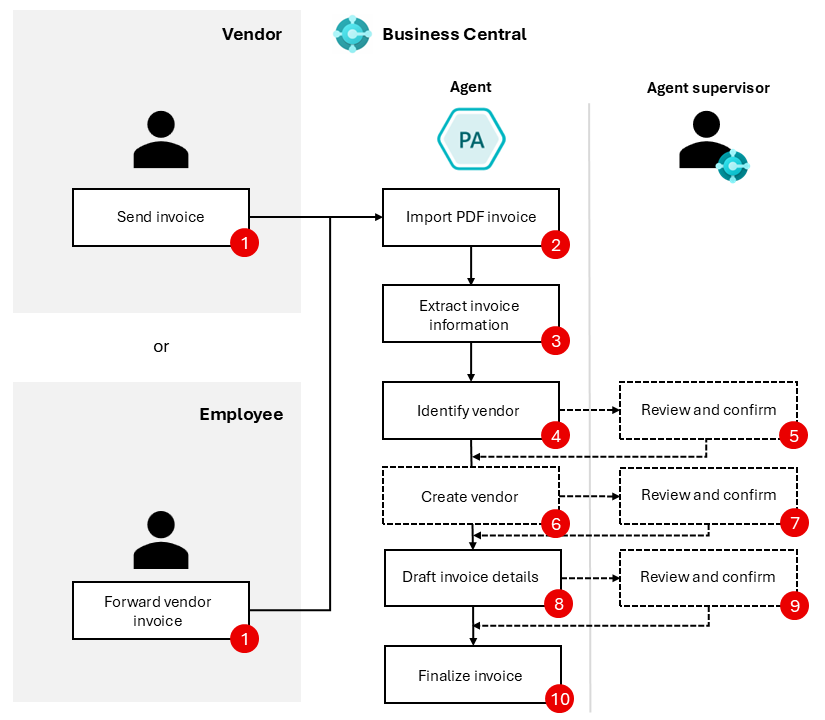
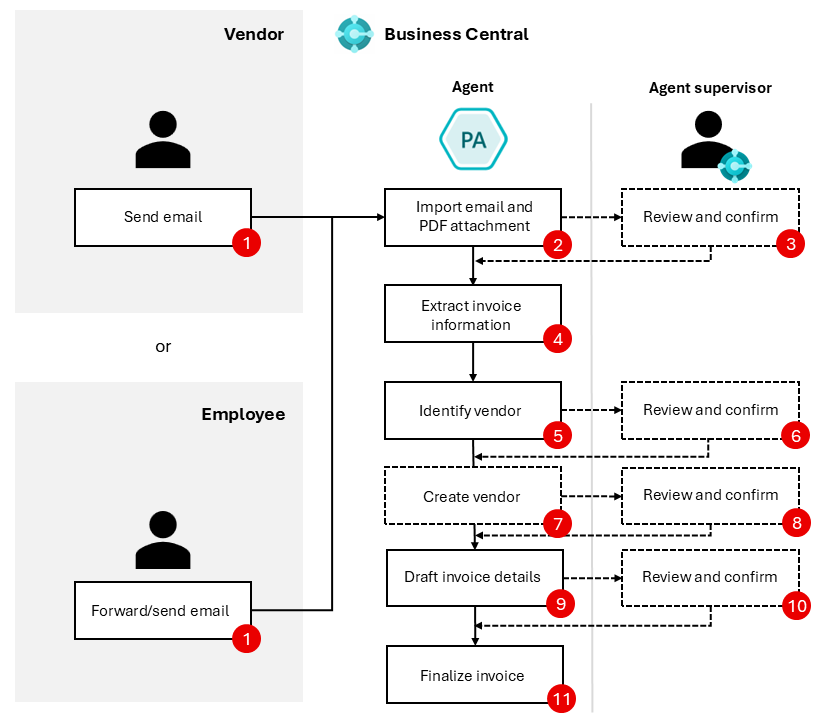
New

diff --git a/business-central/payables-agent.md b/business-central/payables-agent.md
@@ -49,7 +49,8 @@ The end-to-end process handled by the Payables Agent is shown in the following f
 ![Shows the Payables Agent flow](media/payables-agent-flow.png)
 
 1. **Vendor or employee:** Vendor sends an email to a mailbox monitored by the agent. Alternatively, an employee forwards a vendor invoice to the mailbox.
-1. **Payables Agent:** Picks up PDF attachments from unread emails in the monitored mailbox and imports the PDF into **Inbound E-Documents** in Business Central.
+1. **Payables Agent:** Imports the email and picks up PDF attachments from unread emails in the monitored mailbox and imports the PDF into **Inbound E-Documents** in Business Central.
+1. **Agent supervisor:** Reviews the email and PDF, if any was attached.
 1. **Payables Agent:** Extracts invoice information from the PDF using Azure Document Intelligence.
 1. **Payables Agent:** Identifies a vendor in Business Central based on the extracted invoice information.
 1. **Agent supervisor:** Can assist the agent with identifying the vendor if the agent can't confidently identify the right vendor. The agent supervisor can instruct the agent to create the vendor if they prefer to let the agent prefill vendor information based on OCR extracted vendor details.
